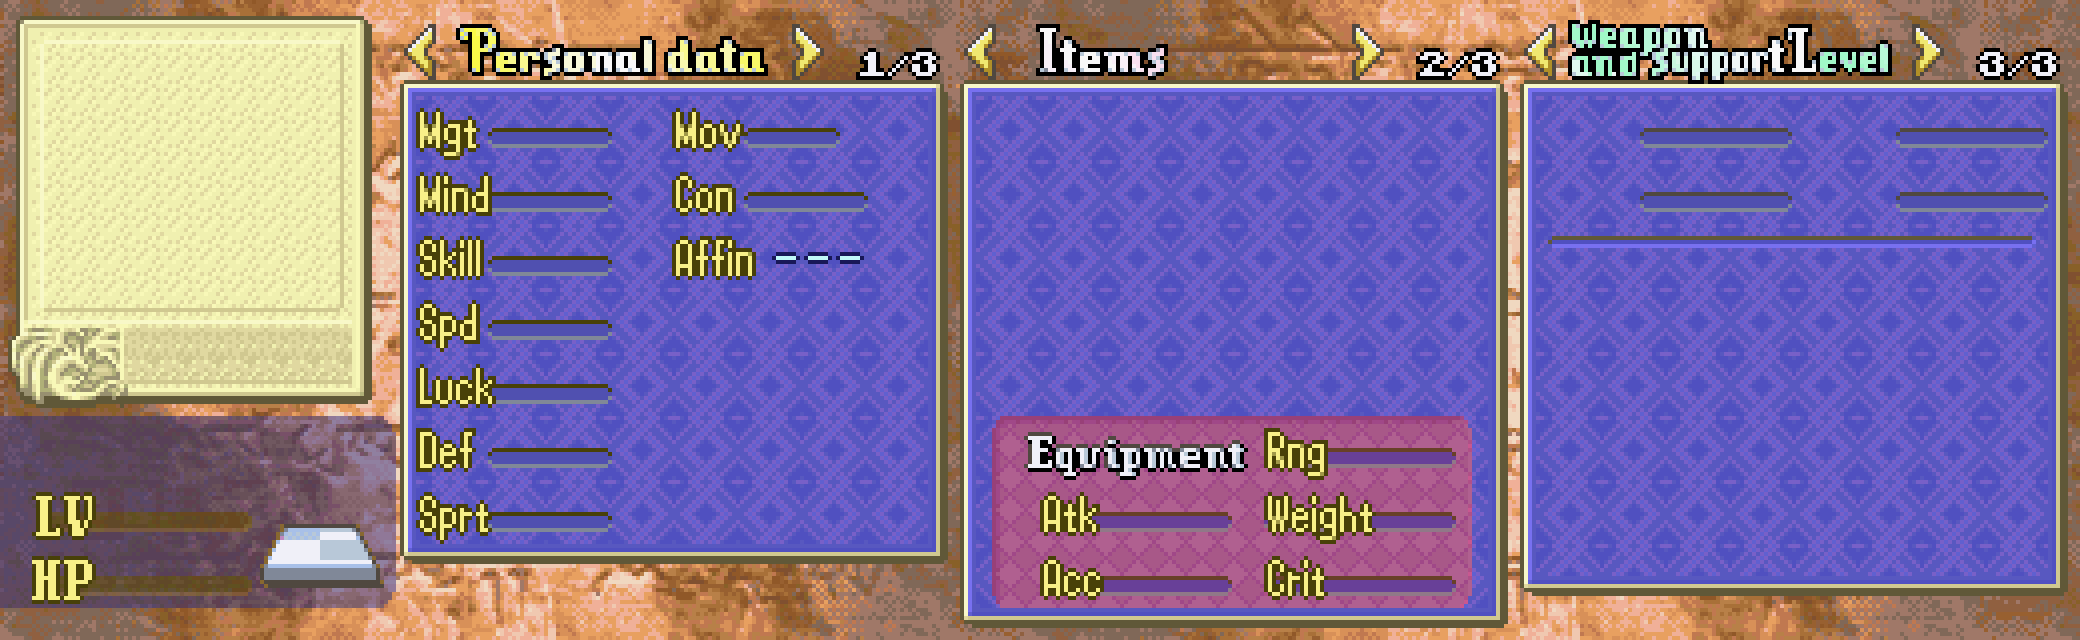
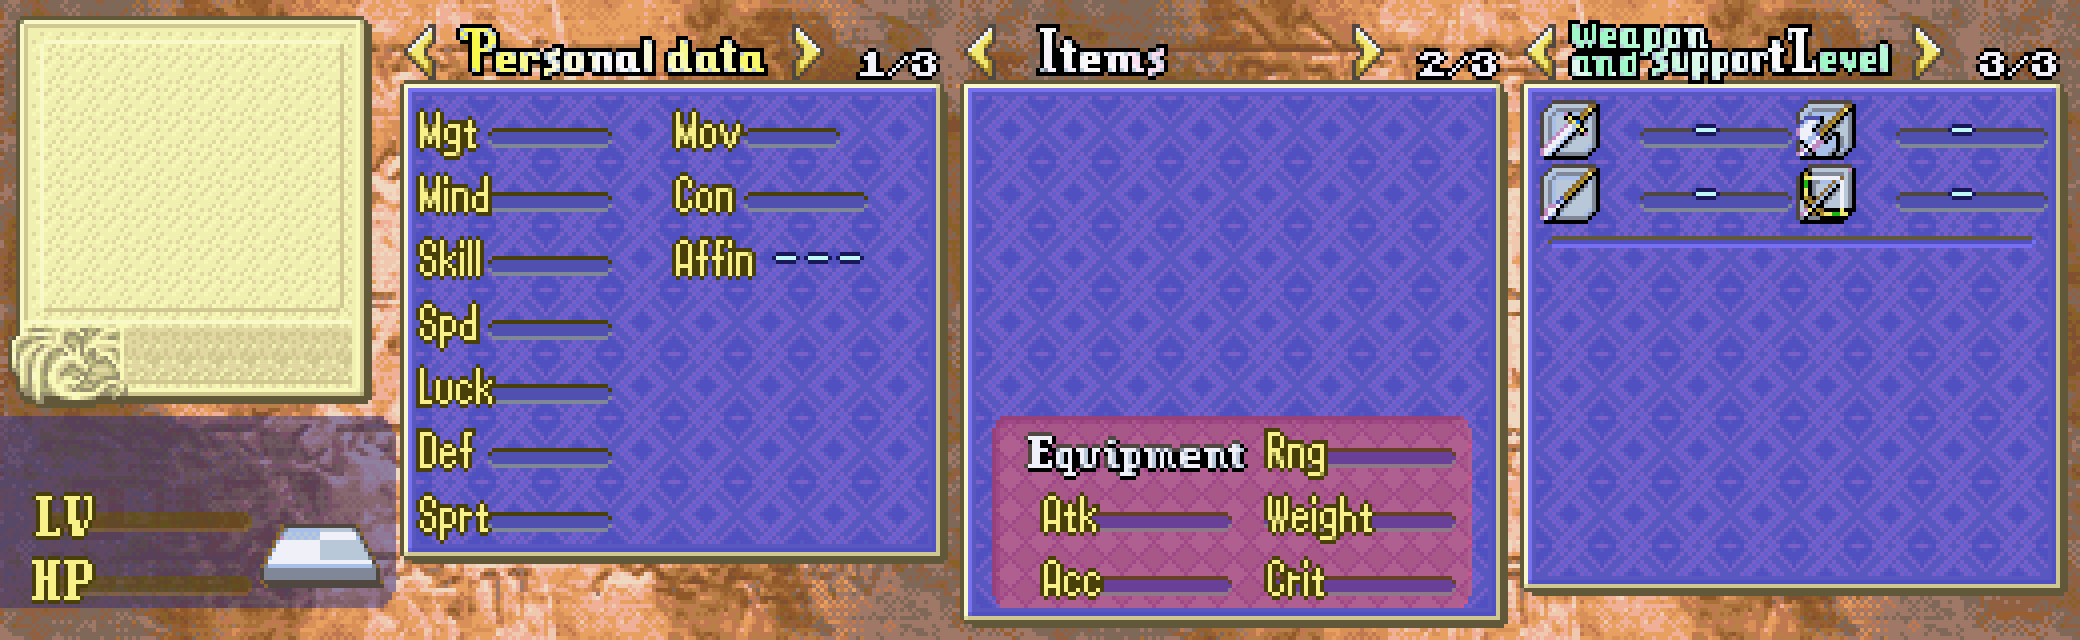
Statsheet tab - Added weapon proficiency and rank

diff --git a/main.py b/main.py
@@ -52,6 +52,10 @@ equipment_file = open('UI Resources/Equipment list.txt', 'r')
 equipment_list = equipment_file.read().splitlines()
 equipment_images = os.listdir('UI Resources/Equipment sprites')
 equipment_images_no_ext = [os.path.splitext(file)[0] for file in equipment_images]
+
+rank_levels = ['S', 'A', 'B', 'C', 'D', 'E', 'None']
+affinity_types = ['Fire', 'Thunder', 'Wind', 'Ice', 'Dark', 'Light', 'Anima', 'None']
+weapon_types = ['Swords', 'Axes', 'Spears', 'Bows', 'Mysticism', 'Grave', 'Light', 'Theurgy', 'None']
 # </editor-fold>
 # -----------------------------------------------------------------------------
 # <editor-fold desc="Levelup tab - unit update functions">
@@ -957,7 +961,7 @@ def statsheet_unit_affinity_edit(self):
 
 # <editor-fold desc="Statsheet tab - equipment update functions">
 def statsheet_equip1_edit(self):
-    statsheet_str = statsheet_equip1_input.get()
+    statsheet_str = statsheet_equip1_input.get().capitalize()
     statsheet_word_background = Image.open('UI Resources/Statsheet tab/no_equip_bg.png')
     statsheet_tab_main_image.paste(statsheet_word_background, (1040, 108))
     if statsheet_str == '':
@@ -986,7 +990,7 @@ def statsheet_equip1_edit(self):
     statsheet_tab_ui_label.image = statsheet_tab_ui_new
 
 def statsheet_equip2_edit(self):
-    statsheet_str = statsheet_equip2_input.get()
+    statsheet_str = statsheet_equip2_input.get().capitalize()
     statsheet_word_background = Image.open('UI Resources/Statsheet tab/no_equip_bg.png')
     statsheet_tab_main_image.paste(statsheet_word_background, (1040, 172))
     if statsheet_str == '':
@@ -1015,7 +1019,7 @@ def statsheet_equip2_edit(self):
     statsheet_tab_ui_label.image = statsheet_tab_ui_new
 
 def statsheet_equip3_edit(self):
-    statsheet_str = statsheet_equip3_input.get()
+    statsheet_str = statsheet_equip3_input.get().capitalize()
     statsheet_word_background = Image.open('UI Resources/Statsheet tab/no_equip_bg.png')
     statsheet_tab_main_image.paste(statsheet_word_background, (1040, 236))
     if statsheet_str == '':
@@ -1044,7 +1048,7 @@ def statsheet_equip3_edit(self):
     statsheet_tab_ui_label.image = statsheet_tab_ui_new
 
 def statsheet_equip4_edit(self):
-    statsheet_str = statsheet_equip4_input.get()
+    statsheet_str = statsheet_equip4_input.get().capitalize()
     statsheet_word_background = Image.open('UI Resources/Statsheet tab/no_equip_bg.png')
     statsheet_tab_main_image.paste(statsheet_word_background, (1040, 300))
     if statsheet_str == '':
@@ -1073,7 +1077,7 @@ def statsheet_equip4_edit(self):
     statsheet_tab_ui_label.image = statsheet_tab_ui_new
 
 def statsheet_equip5_edit(self):
-    statsheet_str = statsheet_equip5_input.get()
+    statsheet_str = statsheet_equip5_input.get().capitalize()
     statsheet_word_background = Image.open('UI Resources/Statsheet tab/no_equip_bg.png')
     statsheet_tab_main_image.paste(statsheet_word_background, (1040, 364))
     if statsheet_str == '':
@@ -1118,17 +1122,115 @@ def statsheet_weapon_critical_edit(self):
 # </editor-fold>
 
 # <editor-fold desc="Statsheet tab - proficiency update functions">
+def statsheet_proficiency_type1_edit(self):
+    weapon_type = statsheet_proficiency_type1_input.get().capitalize()
+    if weapon_type == 'None':
+        statsheet_affinity_image = Image.open('UI Resources/Statsheet tab/weapon_proficiency_icon_bg.png')
+        statsheet_tab_main_image.paste(statsheet_affinity_image, (1540, 100))
+    elif weapon_type in weapon_types:
+        statsheet_affinity_image = Image.open('UI Resources/Weapon proficiency icons/' + weapon_type + '_icon.png')
+        statsheet_tab_main_image.paste(statsheet_affinity_image, (1540, 100), mask=statsheet_affinity_image)
+    statsheet_tab_ui.paste(statsheet_tab_main_image.resize([1560, 480]), (216, 912))
+    statsheet_tab_ui_new = ImageTk.PhotoImage(statsheet_tab_ui.resize([1000, 750]))
+    statsheet_tab_ui_label.configure(image=statsheet_tab_ui_new)
+    statsheet_tab_ui_label.image = statsheet_tab_ui_new
 
+def statsheet_proficiency_type2_edit(self):
+    weapon_type = statsheet_proficiency_type2_input.get().capitalize()
+    if weapon_type == 'None':
+        statsheet_affinity_image = Image.open('UI Resources/Statsheet tab/weapon_proficiency_icon_bg.png')
+        statsheet_tab_main_image.paste(statsheet_affinity_image, (1796, 100))
+    elif weapon_type in weapon_types:
+        statsheet_affinity_image = Image.open('UI Resources/Weapon proficiency icons/' + weapon_type + '_icon.png')
+        statsheet_tab_main_image.paste(statsheet_affinity_image, (1796, 100), mask=statsheet_affinity_image)
+    statsheet_tab_ui.paste(statsheet_tab_main_image.resize([1560, 480]), (216, 912))
+    statsheet_tab_ui_new = ImageTk.PhotoImage(statsheet_tab_ui.resize([1000, 750]))
+    statsheet_tab_ui_label.configure(image=statsheet_tab_ui_new)
+    statsheet_tab_ui_label.image = statsheet_tab_ui_new
+
+def statsheet_proficiency_type3_edit(self):
+    weapon_type = statsheet_proficiency_type3_input.get().capitalize()
+    if weapon_type == 'None':
+        statsheet_affinity_image = Image.open('UI Resources/Statsheet tab/weapon_proficiency_icon_bg.png')
+        statsheet_tab_main_image.paste(statsheet_affinity_image, (1540, 164))
+    elif weapon_type in weapon_types:
+        statsheet_affinity_image = Image.open('UI Resources/Weapon proficiency icons/' + weapon_type + '_icon.png')
+        statsheet_tab_main_image.paste(statsheet_affinity_image, (1540, 164), mask=statsheet_affinity_image)
+    statsheet_tab_ui.paste(statsheet_tab_main_image.resize([1560, 480]), (216, 912))
+    statsheet_tab_ui_new = ImageTk.PhotoImage(statsheet_tab_ui.resize([1000, 750]))
+    statsheet_tab_ui_label.configure(image=statsheet_tab_ui_new)
+    statsheet_tab_ui_label.image = statsheet_tab_ui_new
+
+def statsheet_proficiency_type4_edit(self):
+    weapon_type = statsheet_proficiency_type4_input.get().capitalize()
+    if weapon_type == 'None':
+        statsheet_affinity_image = Image.open('UI Resources/Statsheet tab/weapon_proficiency_icon_bg.png')
+        statsheet_tab_main_image.paste(statsheet_affinity_image, (1796, 164))
+    elif weapon_type in weapon_types:
+        statsheet_affinity_image = Image.open('UI Resources/Weapon proficiency icons/' + weapon_type + '_icon.png')
+        statsheet_tab_main_image.paste(statsheet_affinity_image, (1796, 164), mask=statsheet_affinity_image)
+    statsheet_tab_ui.paste(statsheet_tab_main_image.resize([1560, 480]), (216, 912))
+    statsheet_tab_ui_new = ImageTk.PhotoImage(statsheet_tab_ui.resize([1000, 750]))
+    statsheet_tab_ui_label.configure(image=statsheet_tab_ui_new)
+    statsheet_tab_ui_label.image = statsheet_tab_ui_new
+
+def statsheet_proficiency_rank1_edit(self):
+    proficiency_rank = statsheet_proficiency_rank1_input.get().capitalize()
+    if proficiency_rank in rank_levels:
+        statsheet_rank_background = Image.open('UI Resources/Statsheet tab/weapon_proficiency_rank_bg.png')
+        statsheet_rank_image = Image.open('UI Resources/Statsheet tab/rank_' + proficiency_rank + '.png')
+        statsheet_tab_main_image.paste(statsheet_rank_background, (1692, 108))
+        statsheet_tab_main_image.paste(statsheet_rank_image, (1692, 108), mask=statsheet_rank_image)
+    statsheet_tab_ui.paste(statsheet_tab_main_image.resize([1560, 480]), (216, 912))
+    statsheet_tab_ui_new = ImageTk.PhotoImage(statsheet_tab_ui.resize([1000, 750]))
+    statsheet_tab_ui_label.configure(image=statsheet_tab_ui_new)
+    statsheet_tab_ui_label.image = statsheet_tab_ui_new
+
+def statsheet_proficiency_rank2_edit(self):
+    proficiency_rank = statsheet_proficiency_rank2_input.get().capitalize()
+    if proficiency_rank in rank_levels:
+        statsheet_rank_background = Image.open('UI Resources/Statsheet tab/weapon_proficiency_rank_bg.png')
+        statsheet_rank_image = Image.open('UI Resources/Statsheet tab/rank_' + proficiency_rank + '.png')
+        statsheet_tab_main_image.paste(statsheet_rank_background, (1948, 108))
+        statsheet_tab_main_image.paste(statsheet_rank_image, (1948, 108), mask=statsheet_rank_image)
+    statsheet_tab_ui.paste(statsheet_tab_main_image.resize([1560, 480]), (216, 912))
+    statsheet_tab_ui_new = ImageTk.PhotoImage(statsheet_tab_ui.resize([1000, 750]))
+    statsheet_tab_ui_label.configure(image=statsheet_tab_ui_new)
+    statsheet_tab_ui_label.image = statsheet_tab_ui_new
+
+def statsheet_proficiency_rank3_edit(self):
+    proficiency_rank = statsheet_proficiency_rank3_input.get().capitalize()
+    if proficiency_rank in rank_levels:
+        statsheet_rank_background = Image.open('UI Resources/Statsheet tab/weapon_proficiency_rank_bg.png')
+        statsheet_rank_image = Image.open('UI Resources/Statsheet tab/rank_' + proficiency_rank + '.png')
+        statsheet_tab_main_image.paste(statsheet_rank_background, (1692, 172))
+        statsheet_tab_main_image.paste(statsheet_rank_image, (1692, 172), mask=statsheet_rank_image)
+    statsheet_tab_ui.paste(statsheet_tab_main_image.resize([1560, 480]), (216, 912))
+    statsheet_tab_ui_new = ImageTk.PhotoImage(statsheet_tab_ui.resize([1000, 750]))
+    statsheet_tab_ui_label.configure(image=statsheet_tab_ui_new)
+    statsheet_tab_ui_label.image = statsheet_tab_ui_new
+
+def statsheet_proficiency_rank4_edit(self):
+    proficiency_rank = statsheet_proficiency_rank4_input.get().capitalize()
+    if proficiency_rank in rank_levels:
+        statsheet_rank_background = Image.open('UI Resources/Statsheet tab/weapon_proficiency_rank_bg.png')
+        statsheet_rank_image = Image.open('UI Resources/Statsheet tab/rank_' + proficiency_rank + '.png')
+        statsheet_tab_main_image.paste(statsheet_rank_background, (1948, 172))
+        statsheet_tab_main_image.paste(statsheet_rank_image, (1948, 172), mask=statsheet_rank_image)
+    statsheet_tab_ui.paste(statsheet_tab_main_image.resize([1560, 480]), (216, 912))
+    statsheet_tab_ui_new = ImageTk.PhotoImage(statsheet_tab_ui.resize([1000, 750]))
+    statsheet_tab_ui_label.configure(image=statsheet_tab_ui_new)
+    statsheet_tab_ui_label.image = statsheet_tab_ui_new
 # </editor-fold>
 
 # <editor-fold desc="Statsheet tab - supports update functions">
 def statsheet_support1_affinity_edit(self):
     affinity_type = statsheet_support_affinity_type1.get().capitalize()
-    if affinity_type in ['Fire', 'Thunder', 'Wind', 'Ice', 'Dark', 'Light', 'Anima']:
-        statsheet_affinity_image = Image.open('UI Resources/Statsheet tab/' + affinity_type + '_affinity.png')
-        statsheet_tab_main_image.paste(statsheet_affinity_image, (1636, 264), mask=statsheet_affinity_image)
-    elif affinity_type == 'None':
+    if affinity_type == 'None':
         statsheet_affinity_image = Image.open('UI Resources/Statsheet tab/support_affinity_bg.png')
+        statsheet_tab_main_image.paste(statsheet_affinity_image, (1636, 264), mask=statsheet_affinity_image)
+    elif affinity_type in affinity_types:
+        statsheet_affinity_image = Image.open('UI Resources/Statsheet tab/' + affinity_type + '_affinity.png')
         statsheet_tab_main_image.paste(statsheet_affinity_image, (1636, 264), mask=statsheet_affinity_image)
     statsheet_tab_ui.paste(statsheet_tab_main_image.resize([1560, 480]), (216, 912))
     statsheet_tab_ui_new = ImageTk.PhotoImage(statsheet_tab_ui.resize([1000, 750]))
@@ -1137,11 +1239,11 @@ def statsheet_support1_affinity_edit(self):
 
 def statsheet_support2_affinity_edit(self):
     affinity_type = statsheet_support_affinity_type2.get().capitalize()
-    if affinity_type in ['Fire', 'Thunder', 'Wind', 'Ice', 'Dark', 'Light', 'Anima']:
-        statsheet_affinity_image = Image.open('UI Resources/Statsheet tab/' + affinity_type + '_affinity.png')
-        statsheet_tab_main_image.paste(statsheet_affinity_image, (1636, 328), mask=statsheet_affinity_image)
-    elif affinity_type == 'None':
+    if affinity_type == 'None':
         statsheet_affinity_image = Image.open('UI Resources/Statsheet tab/support_affinity_bg.png')
+        statsheet_tab_main_image.paste(statsheet_affinity_image, (1636, 328), mask=statsheet_affinity_image)
+    elif affinity_type in affinity_types:
+        statsheet_affinity_image = Image.open('UI Resources/Statsheet tab/' + affinity_type + '_affinity.png')
         statsheet_tab_main_image.paste(statsheet_affinity_image, (1636, 328), mask=statsheet_affinity_image)
     statsheet_tab_ui.paste(statsheet_tab_main_image.resize([1560, 480]), (216, 912))
     statsheet_tab_ui_new = ImageTk.PhotoImage(statsheet_tab_ui.resize([1000, 750]))
@@ -1150,11 +1252,11 @@ def statsheet_support2_affinity_edit(self):
 
 def statsheet_support3_affinity_edit(self):
     affinity_type = statsheet_support_affinity_type3.get().capitalize()
-    if affinity_type in ['Fire', 'Thunder', 'Wind', 'Ice', 'Dark', 'Light', 'Anima']:
-        statsheet_affinity_image = Image.open('UI Resources/Statsheet tab/' + affinity_type + '_affinity.png')
-        statsheet_tab_main_image.paste(statsheet_affinity_image, (1636, 392), mask=statsheet_affinity_image)
-    elif affinity_type == 'None':
+    if affinity_type == 'None':
         statsheet_affinity_image = Image.open('UI Resources/Statsheet tab/support_affinity_bg.png')
+        statsheet_tab_main_image.paste(statsheet_affinity_image, (1636, 392), mask=statsheet_affinity_image)
+    elif affinity_type in affinity_types:
+        statsheet_affinity_image = Image.open('UI Resources/Statsheet tab/' + affinity_type + '_affinity.png')
         statsheet_tab_main_image.paste(statsheet_affinity_image, (1636, 392), mask=statsheet_affinity_image)
     statsheet_tab_ui.paste(statsheet_tab_main_image.resize([1560, 480]), (216, 912))
     statsheet_tab_ui_new = ImageTk.PhotoImage(statsheet_tab_ui.resize([1000, 750]))
@@ -1226,13 +1328,13 @@ def statsheet_support3_name_edit(self):
 
 def statsheet_support1_rank_edit(self):
     support_rank = statsheet_support_rank1.get().capitalize()
-    if support_rank in ['S', 'A', 'B', 'C', 'D', 'E']:
+    if support_rank == 'None':
+        statsheet_rank_image = Image.open('UI Resources/Statsheet tab/support_rank_bg.png')
+        statsheet_tab_main_image.paste(statsheet_rank_image, (1920, 268), mask=statsheet_rank_image)
+    elif support_rank in rank_levels:
         statsheet_rank_background = Image.open('UI Resources/Statsheet tab/support_rank_bg.png')
         statsheet_rank_image = Image.open('UI Resources/Statsheet tab/rank_' + support_rank + '.png')
         statsheet_tab_main_image.paste(statsheet_rank_background, (1920, 268))
-        statsheet_tab_main_image.paste(statsheet_rank_image, (1920, 268), mask=statsheet_rank_image)
-    elif support_rank == 'None':
-        statsheet_rank_image = Image.open('UI Resources/Statsheet tab/support_rank_bg.png')
         statsheet_tab_main_image.paste(statsheet_rank_image, (1920, 268), mask=statsheet_rank_image)
     statsheet_tab_ui.paste(statsheet_tab_main_image.resize([1560, 480]), (216, 912))
     statsheet_tab_ui_new = ImageTk.PhotoImage(statsheet_tab_ui.resize([1000, 750]))
@@ -1241,13 +1343,13 @@ def statsheet_support1_rank_edit(self):
 
 def statsheet_support2_rank_edit(self):
     support_rank = statsheet_support_rank2.get().capitalize()
-    if support_rank in ['S', 'A', 'B', 'C', 'D', 'E']:
+    if support_rank == 'None':
+        statsheet_rank_image = Image.open('UI Resources/Statsheet tab/support_rank_bg.png')
+        statsheet_tab_main_image.paste(statsheet_rank_image, (1920, 333), mask=statsheet_rank_image)
+    elif support_rank in rank_levels:
         statsheet_rank_background = Image.open('UI Resources/Statsheet tab/support_rank_bg.png')
         statsheet_rank_image = Image.open('UI Resources/Statsheet tab/rank_' + support_rank + '.png')
         statsheet_tab_main_image.paste(statsheet_rank_background, (1920, 333))
-        statsheet_tab_main_image.paste(statsheet_rank_image, (1920, 333), mask=statsheet_rank_image)
-    elif support_rank == 'None':
-        statsheet_rank_image = Image.open('UI Resources/Statsheet tab/support_rank_bg.png')
         statsheet_tab_main_image.paste(statsheet_rank_image, (1920, 333), mask=statsheet_rank_image)
     statsheet_tab_ui.paste(statsheet_tab_main_image.resize([1560, 480]), (216, 912))
     statsheet_tab_ui_new = ImageTk.PhotoImage(statsheet_tab_ui.resize([1000, 750]))
@@ -1256,13 +1358,13 @@ def statsheet_support2_rank_edit(self):
 
 def statsheet_support3_rank_edit(self):
     support_rank = statsheet_support_rank3.get().capitalize()
-    if support_rank in ['S', 'A', 'B', 'C', 'D', 'E']:
+    if support_rank == 'None':
+        statsheet_rank_image = Image.open('UI Resources/Statsheet tab/support_rank_bg.png')
+        statsheet_tab_main_image.paste(statsheet_rank_image, (1920, 400), mask=statsheet_rank_image)
+    elif support_rank in rank_levels:
         statsheet_rank_background = Image.open('UI Resources/Statsheet tab/support_rank_bg.png')
         statsheet_rank_image = Image.open('UI Resources/Statsheet tab/rank_' + support_rank + '.png')
         statsheet_tab_main_image.paste(statsheet_rank_background, (1920, 400))
-        statsheet_tab_main_image.paste(statsheet_rank_image, (1920, 400), mask=statsheet_rank_image)
-    elif support_rank == 'None':
-        statsheet_rank_image = Image.open('UI Resources/Statsheet tab/support_rank_bg.png')
         statsheet_tab_main_image.paste(statsheet_rank_image, (1920, 400), mask=statsheet_rank_image)
     statsheet_tab_ui.paste(statsheet_tab_main_image.resize([1560, 480]), (216, 912))
     statsheet_tab_ui_new = ImageTk.PhotoImage(statsheet_tab_ui.resize([1000, 750]))
@@ -1342,7 +1444,6 @@ statsheet_LUK_input.place(x=310, y=305)
 statsheet_DEF_input.place(x=310, y=337)
 statsheet_SPR_input.place(x=310, y=369)
 
-affinity_types = ['Fire', 'Thunder', 'Wind', 'Ice', 'Dark', 'Light', 'Anima', 'None']
 statsheet_MOV_input = Entry(tab_statsheet, width=5, justify='center')
 statsheet_CON_input = Entry(tab_statsheet, width=5, justify='center')
 statsheet_unit_affinity_type = StringVar()
@@ -1403,6 +1504,55 @@ statsheet_weapon_range_input.place(x=680, y=337)
 statsheet_weapon_weight_input.place(x=680, y=369)
 statsheet_weapon_critical_input.place(x=680, y=401)
 
+statsheet_proficiency_type1 = StringVar()
+statsheet_proficiency_type2 = StringVar()
+statsheet_proficiency_type3 = StringVar()
+statsheet_proficiency_type4 = StringVar()
+statsheet_proficiency_type1_input = Combobox(tab_statsheet, values=weapon_types, width=10, justify='center',
+                                             textvariable=statsheet_proficiency_type1)
+statsheet_proficiency_type2_input = Combobox(tab_statsheet, values=weapon_types, width=10, justify='center',
+                                             textvariable=statsheet_proficiency_type2)
+statsheet_proficiency_type3_input = Combobox(tab_statsheet, values=weapon_types, width=10, justify='center',
+                                             textvariable=statsheet_proficiency_type3)
+statsheet_proficiency_type4_input = Combobox(tab_statsheet, values=weapon_types, width=10, justify='center',
+                                             textvariable=statsheet_proficiency_type4)
+statsheet_proficiency_type1_input.bind('<<ComboboxSelected>>', statsheet_proficiency_type1_edit)
+statsheet_proficiency_type2_input.bind('<<ComboboxSelected>>', statsheet_proficiency_type2_edit)
+statsheet_proficiency_type3_input.bind('<<ComboboxSelected>>', statsheet_proficiency_type3_edit)
+statsheet_proficiency_type4_input.bind('<<ComboboxSelected>>', statsheet_proficiency_type4_edit)
+statsheet_proficiency_type1_input.bind('<KeyRelease>', statsheet_proficiency_type1_edit)
+statsheet_proficiency_type2_input.bind('<KeyRelease>', statsheet_proficiency_type2_edit)
+statsheet_proficiency_type3_input.bind('<KeyRelease>', statsheet_proficiency_type3_edit)
+statsheet_proficiency_type4_input.bind('<KeyRelease>', statsheet_proficiency_type4_edit)
+statsheet_proficiency_type1_input.place(x=816, y=80)
+statsheet_proficiency_type2_input.place(x=816, y=112)
+statsheet_proficiency_type3_input.place(x=816, y=144)
+statsheet_proficiency_type4_input.place(x=816, y=176)
+
+statsheet_proficiency_rank1 = StringVar()
+statsheet_proficiency_rank2 = StringVar()
+statsheet_proficiency_rank3 = StringVar()
+statsheet_proficiency_rank4 = StringVar()
+statsheet_proficiency_rank1_input = Combobox(tab_statsheet, values=rank_levels, width=5, justify='center',
+                                             textvariable=statsheet_proficiency_rank1)
+statsheet_proficiency_rank2_input = Combobox(tab_statsheet, values=rank_levels, width=5, justify='center',
+                                             textvariable=statsheet_proficiency_rank2)
+statsheet_proficiency_rank3_input = Combobox(tab_statsheet, values=rank_levels, width=5, justify='center',
+                                             textvariable=statsheet_proficiency_rank3)
+statsheet_proficiency_rank4_input = Combobox(tab_statsheet, values=rank_levels, width=5, justify='center',
+                                             textvariable=statsheet_proficiency_rank4)
+statsheet_proficiency_rank1_input.bind('<<ComboboxSelected>>', statsheet_proficiency_rank1_edit)
+statsheet_proficiency_rank2_input.bind('<<ComboboxSelected>>', statsheet_proficiency_rank2_edit)
+statsheet_proficiency_rank3_input.bind('<<ComboboxSelected>>', statsheet_proficiency_rank3_edit)
+statsheet_proficiency_rank4_input.bind('<<ComboboxSelected>>', statsheet_proficiency_rank4_edit)
+statsheet_proficiency_rank1_input.bind('<KeyRelease>', statsheet_proficiency_rank1_edit)
+statsheet_proficiency_rank2_input.bind('<KeyRelease>', statsheet_proficiency_rank2_edit)
+statsheet_proficiency_rank3_input.bind('<KeyRelease>', statsheet_proficiency_rank3_edit)
+statsheet_proficiency_rank4_input.bind('<KeyRelease>', statsheet_proficiency_rank4_edit)
+statsheet_proficiency_rank1_input.place(x=910, y=80)
+statsheet_proficiency_rank2_input.place(x=910, y=112)
+statsheet_proficiency_rank3_input.place(x=910, y=144)
+statsheet_proficiency_rank4_input.place(x=910, y=176)
 
 statsheet_support_affinity_type1 = StringVar()
 statsheet_support_affinity_type2 = StringVar()
@@ -1433,15 +1583,14 @@ statsheet_support1_name_input.place(x=860, y=273)
 statsheet_support2_name_input.place(x=860, y=305)
 statsheet_support3_name_input.place(x=860, y=337)
 
-support_levels = ['S', 'A', 'B', 'C', 'D', 'E', 'None']
 statsheet_support_rank1 = StringVar()
 statsheet_support_rank2 = StringVar()
 statsheet_support_rank3 = StringVar()
-statsheet_support1_rank_input = Combobox(tab_statsheet, values=support_levels, width=2, justify='center',
+statsheet_support1_rank_input = Combobox(tab_statsheet, values=rank_levels, width=2, justify='center',
                                          textvariable=statsheet_support_rank1)
-statsheet_support2_rank_input = Combobox(tab_statsheet, values=support_levels, width=2, justify='center',
+statsheet_support2_rank_input = Combobox(tab_statsheet, values=rank_levels, width=2, justify='center',
                                          textvariable=statsheet_support_rank2)
-statsheet_support3_rank_input = Combobox(tab_statsheet, values=support_levels, width=2, justify='center',
+statsheet_support3_rank_input = Combobox(tab_statsheet, values=rank_levels, width=2, justify='center',
                                          textvariable=statsheet_support_rank3)
 statsheet_support1_rank_input.bind('<<ComboboxSelected>>', statsheet_support1_rank_edit)
 statsheet_support1_rank_input.bind('<KeyRelease>', statsheet_support1_rank_edit)
